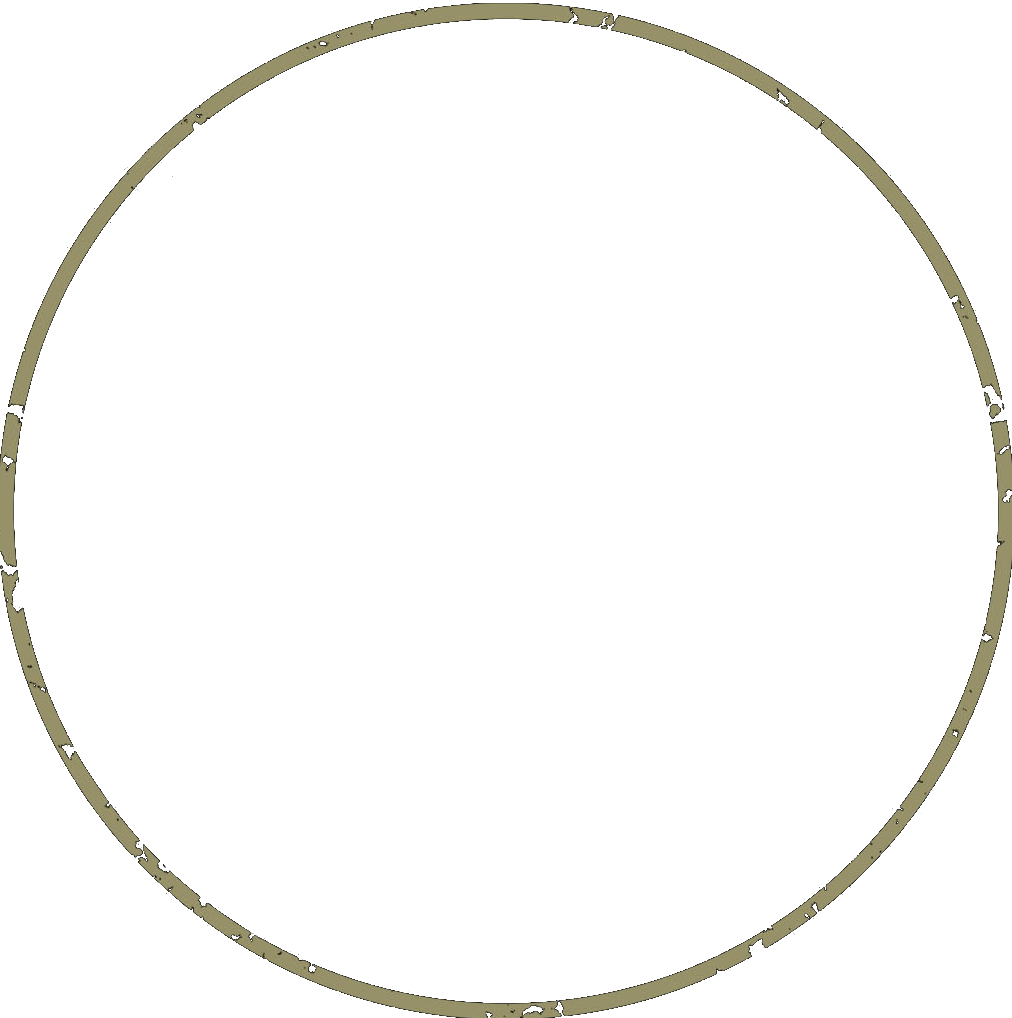
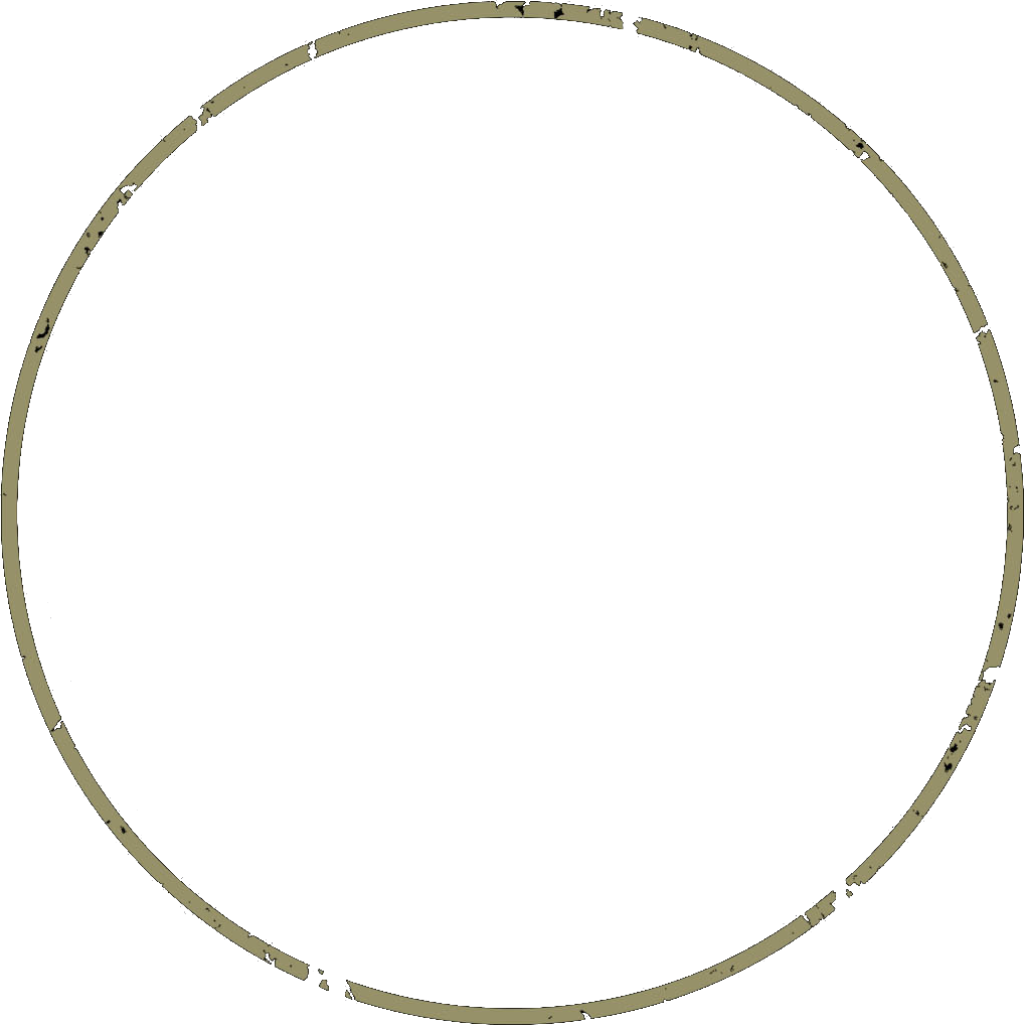
Layers now have random variants

diff --git a/hlb-project/src/components/layout/SigilCard.tsx b/hlb-project/src/components/layout/SigilCard.tsx
@@ -3,6 +3,8 @@ import * as S from "./SigilCard-style";
 import sigilLayer01 from "../../assets/sigils/sigilLayer01.png";
 import sigilLayer02 from "../../assets/sigils/sigilLayer02.png";
 import sigilLayer03 from "../../assets/sigils/sigilLayer03.png";
+import sigilLayer04 from "../../assets/sigils/sigilLayer04.png";
+import sigilLayer05 from "../../assets/sigils/sigilLayer05.png";
 
 import { Sigil } from "../../data/SigilsData";
 
@@ -17,6 +19,16 @@ const SigilCard: React.FC<SigilCardProps> = ({
   isSelected,
   onClick,
 }) => {
+  function getRandomLayers(layers: string[], count: number) {
+    const shuffled = [...layers].sort(() => 0.5 - Math.random());
+    return shuffled.slice(0, count);
+  }
+
+  const randomLayers = getRandomLayers(
+    [sigilLayer01, sigilLayer02, sigilLayer03, sigilLayer04, sigilLayer05],
+    3
+  );
+
   function handleClick() {
     onClick();
 
@@ -28,25 +40,16 @@ const SigilCard: React.FC<SigilCardProps> = ({
   return (
     <S.SigilCardContainer isSelected={isSelected} onClick={handleClick}>
       <S.SigilContainer>
-        <S.SigilLayer
-          src={sigilLayer01}
-          alt="Sigil Logo"
-          $size="100%"
-          $rotateSpeed="65s"
-        />
-        <S.SigilLayer
-          src={sigilLayer02}
-          alt="Sigil Logo"
-          $size="90%"
-          $rotateSpeed="50s"
-          $reverseRotation
-        />
-        <S.SigilLayer
-          src={sigilLayer03}
-          alt="Sigil Logo"
-          $size="80%"
-          $rotateSpeed="45s"
-        />
+        {randomLayers.map((layer) => (
+          <S.SigilLayer
+            key={layer}
+            src={layer}
+            alt="Sigil Logo"
+            $size={`${100 - randomLayers.indexOf(layer) * 10}%`}
+            $rotateSpeed={`${65 - randomLayers.indexOf(layer) * 15}s`}
+            $reverseRotation={randomLayers.indexOf(layer) % 2 === 0}
+          />
+        ))}
         <S.SigilLayer
           src={sigil.image}
           alt="Sigil Logo"
